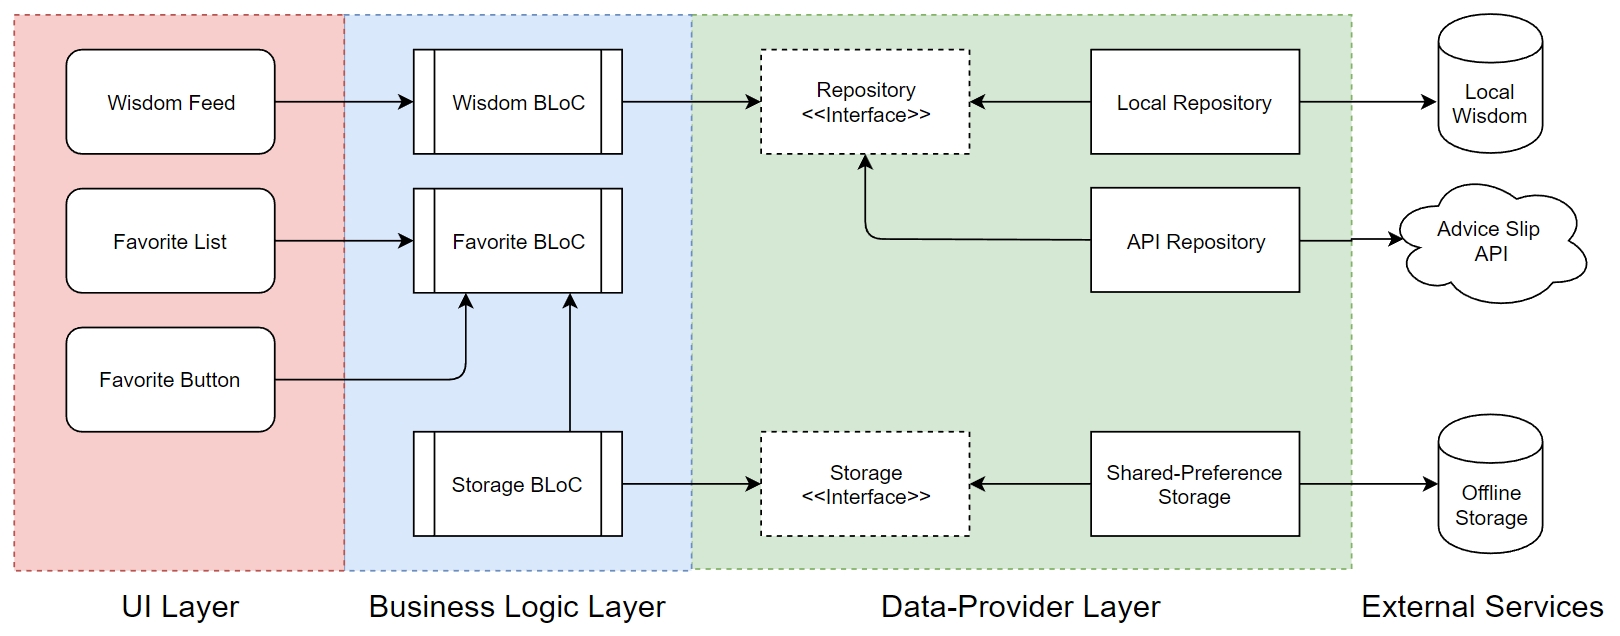
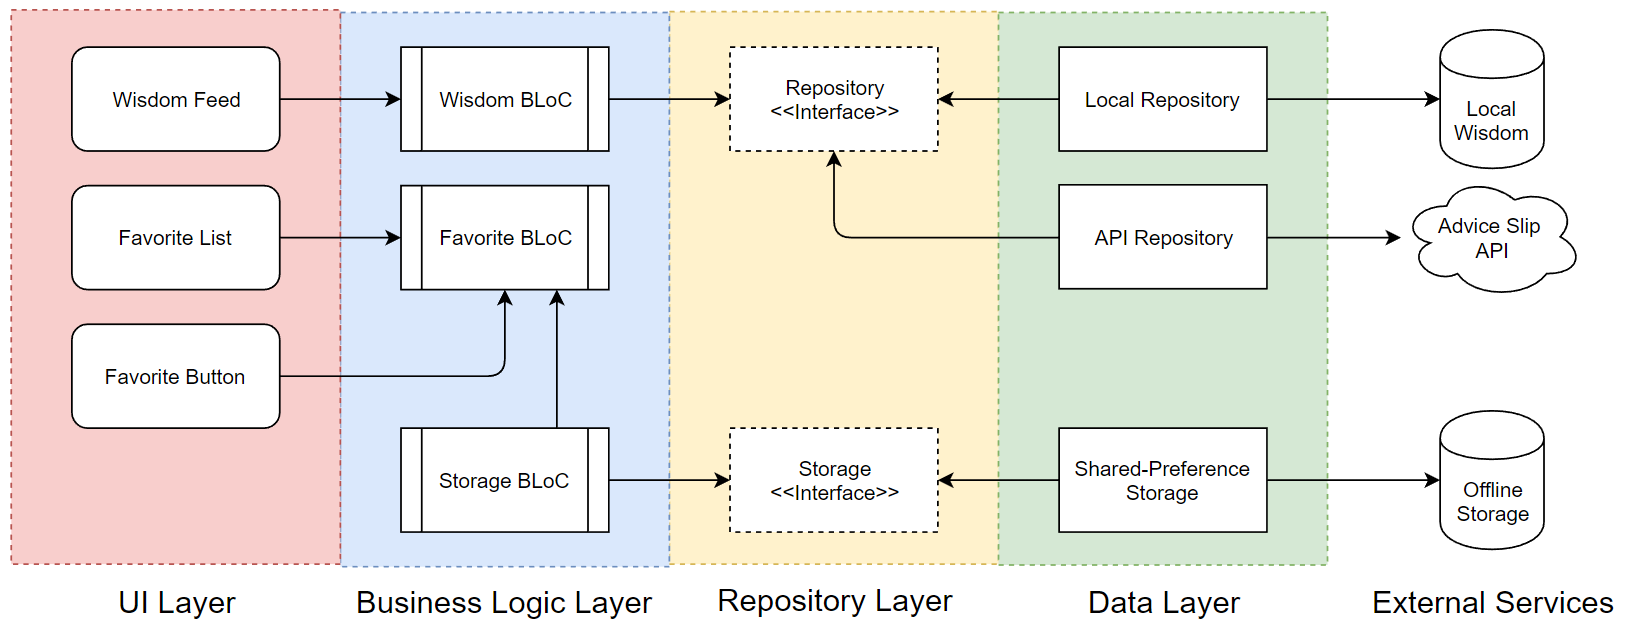
img

diff --git a/.raw-text/raw-guide.md b/.raw-text/raw-guide.md
@@ -287,7 +287,7 @@ _Code Snippet 6: Hypothetical Wisgen Image Widget [[@faustWisgen2019]](https://g
 Alright, but what does that mean for me as a Flutter developer? It is important to understand how data in Flutter flows through the Widget Tree: **Downwards**. You want to place information that is required by multiple Widgets above them in the tree, so they can both easily access it through their BuildContext. Keep this in mind, for now, I will explain this in more detail in the chapter [Architecting a Flutter App][architecture].
 
 ## The three types of Widgets
-There are 3 types of Widgets in the Flutter framework. I will now showcase their differences, their lifecycles, and their respective use-cases.
+There are three types of Widgets in the Flutter framework. I will now showcase their differences, their lifecycles, and their respective use-cases.
 
 ### Stateless Widgets
 This is the most basic of the three and likely the one you'll use the most when developing an app with Flutter. Stateless Widgets [[@flutterdevteamStatelessWidgetClass2018]](https://api.flutter.dev/flutter/widgets/StatelessWidget-class.html) are initialized once with a set of parameters and those parameters will never change from there on out. Let's have a look at an example. This is the class of the card Widget from figure 8:
@@ -772,7 +772,7 @@ _Code Snippet 21: Wisgen AdviceSlips Class [[@faustWisgen2019]](https://github.c
 
 # 200-Architecting-a-Flutter-App
 ## Introduction
-The Most central topic of architecting a Flutter [[@flutterdevteamFlutterFramework2018]](https://flutter.dev/) app is _State Management_ [[@flutterdevteamFlutterState2019]](https://flutter.dev/docs/development/data-and-backend/state-mgmt). **Where** does my State sit, **who** needs access to it and **how** do parts of the app access it? This chapter aims to answer those questions. You will learn about the two types of State, you will be introduced to the three most popular State Management solutions and you will learn one of those State Management solutions (BLoC [[@soaresFlutterAngularDartCode2018]](https://www.youtube.com/watch?v=PLHln7wHgPE)) in detail. You will also learn how to use the BLoC State Management solution in a clean and scalable 3-Layered architecture.
+The Most central topic of architecting a Flutter [[@flutterdevteamFlutterFramework2018]](https://flutter.dev/) app is _State Management_ [[@flutterdevteamFlutterState2019]](https://flutter.dev/docs/development/data-and-backend/state-mgmt). **Where** does my State sit, **who** needs access to it and **how** do parts of the app access it? This chapter aims to answer those questions. You will learn about the two types of State, you will be introduced to the three most popular State Management solutions and you will learn one of those State Management solutions (BLoC [[@soaresFlutterAngularDartCode2018]](https://www.youtube.com/watch?v=PLHln7wHgPE)) in detail. You will also learn how to use the BLoC State Management solution in a clean and scalable Four-Layered architecture.
 
 ## State Management vs Architecture
 I want to differentiate these two terms. Within the Flutter community, _State Management_ and _Architecture_ are often used synonymously, but I think we should be careful to do so. State Management is a set of tools or a pattern with which we can manage the State within our app. Architecture, on the other hand, is the overarching structure of our app. A set of rules that our app conforms to. Any architecture for a Flutter application will have some sort of State Management, but State Management is not an architecture by itself. I just want you to keep this in mind for the following chapters.
@@ -988,11 +988,11 @@ Expanded(
 _Code Snippet 28: Consuming Redux Store in Favorite Button of Wisdom Card [[@faustWisgen2019]](https://github.com/Fasust/wisgen)_
 
 ### Why I decided against it
-I went back and forth on this decision a lot. Redux is a great State Management solution with some clear guidelines on how to integrate it into a Reactive application [[@abramovThreePrinciplesRedux2015]](https://redux.js.org/introduction/three-principles). It also enables the implementation of a clean three-layered architecture (View - Store - Data) [[@eganKeepItSimple2018]](https://www.youtube.com/watch?v=zKXz3pUkw9A). Didier Boelens recommends to just stick to a Redux architecture if you are already familiar with its approach from other cross-platform development frameworks like React [[@facebookReactNativeFramework2015]](https://facebook.github.io/react-native/) and Angular [[@googlellcAngular2016]](https://angular.io/) and I very much agree with this advice [[@boelensFlutterBLoCScopedModel2019]](https://www.didierboelens.com/2019/04/bloc---scopedmodel---redux---comparison/). I have previously never worked with Redux and I decided to use BLoC over Redux because:
+I went back and forth on this decision a lot. Redux is a great State Management solution with some clear guidelines on how to integrate it into a Reactive application [[@abramovThreePrinciplesRedux2015]](https://redux.js.org/introduction/three-principles). It also enables the implementation of a clean four-layered architecture (View - Store - Data) [[@eganKeepItSimple2018]](https://www.youtube.com/watch?v=zKXz3pUkw9A). Didier Boelens recommends to just stick to a Redux architecture if you are already familiar with its approach from other cross-platform development frameworks like React [[@facebookReactNativeFramework2015]](https://facebook.github.io/react-native/) and Angular [[@googlellcAngular2016]](https://angular.io/) and I very much agree with this advice [[@boelensFlutterBLoCScopedModel2019]](https://www.didierboelens.com/2019/04/bloc---scopedmodel---redux---comparison/). I have previously never worked with Redux and I decided to use BLoC over Redux because:
 
 1. It was publicly endorsed by the Flutter Team on multiple occasions [@sullivanBuildReactiveMobile2018; @hracekPragmaticStateManagement2019; @sullivanTechnicalDebtStreams2018; @soaresFlutterAngularDartCode2018; @flutterdevteamFlutterState2019]
 2. It also has clear architectural rules [[@soaresFlutterAngularDartCode2018]](https://www.youtube.com/watch?v=PLHln7wHgPE)
-3. It also enables the implementation of a clean three-layered architecture [[@suriArchitectYourFlutter2019]](https://medium.com/flutterpub/architecting-your-flutter-project-bd04e144a8f1)
+3. It also enables the implementation of a clean four-layered architecture [[@suriArchitectYourFlutter2019]](https://medium.com/flutterpub/architecting-your-flutter-project-bd04e144a8f1)
 4. It was developed by one of Flutter's Engineers [[@soaresFlutterAngularDartCode2018]](https://www.youtube.com/watch?v=PLHln7wHgPE)
 5. We don't end up with one giant store for the business logic out with multiple blocs with separate responsibilities [[@boelensFlutterBLoCScopedModel2019]](https://www.didierboelens.com/2019/04/bloc---scopedmodel---redux---comparison/)
 
@@ -1155,20 +1155,20 @@ Expanded(
 _Code Snippet XXX: Accessing a BLoC in Wisgen [[@faustWisgen2019]](https://github.com/Fasust/wisgen)_
 
 ## Layered Architecure
-Now that we understand how to implement the BLoC pattern, lets' have a look at how we can use it to achieve a clean three-layered architecture for your application. The BLoC Pattern already forces us to keep our UI and our business logic separate. This way we end up with a UI-Layer and a Business-Logic-Layer. Lastly, we want to keep our BLoCs plattform independant. We can do this by extracting any logic related to external services from the BLoC and puting it into its own layer [[@suriArchitectYourFlutter2019]](https://medium.com/flutterpub/architecting-your-flutter-project-bd04e144a8f1). This layer is responsible for things like communication with a database, communication with an api or communication with any other system that is not part of our application. Let's call the classes in this layer _Data-Providers_, as they provide access to external Data. To fulfill rule two of the BLoC Pattern [[@soaresFlutterAngularDartCode2018]](https://www.youtube.com/watch?v=PLHln7wHgPE), we can't have our BLoCs directly depend on our _Data-Providers_. We have to create plattform agnostic interfaces (IE _boundary objects_ [[@martinPrinciplesCleanArchitecture2015]](https://www.youtube.com/watch?v=o_TH-Y78tt4)) and make our _Data-Providers_ implement those. Then our BLoCs can depend on the plattform agnostic interfaces and the actual dependency can be injected. This way we end up with a clean three-layered architecture with one-way dependencies: 
+Now that we understand how to implement the BLoC pattern, lets' have a look at how we can use it to achieve a clean four-layered architecture for your application. The BLoC Pattern already forces us to keep our UI and our business logic separate. This way we end up with a UI-Layer and a Business-Logic-Layer. Lastly, we want to keep our BLoCs plattform independant. We can do this by extracting any logic related to external services from the BLoC and puting it into its own layer [[@suriArchitectYourFlutter2019]](https://medium.com/flutterpub/architecting-your-flutter-project-bd04e144a8f1). This layer is responsible for things like communication with a database, communication with an api or communication with any other system that is not part of our application. Let's call the classes in this layer _Data-Providers_, as they provide access to external Data. To fulfill rule two of the BLoC Pattern [[@soaresFlutterAngularDartCode2018]](https://www.youtube.com/watch?v=PLHln7wHgPE), we can't have our BLoCs directly depend on our _Data-Providers_. We have to create plattform agnostic interfaces (IE _boundary objects_ [[@martinPrinciplesCleanArchitecture2015]](https://www.youtube.com/watch?v=o_TH-Y78tt4)) and make our _Data-Providers_ implement those. Then our BLoCs can depend on the plattform agnostic interfaces and the actual dependency can be injected. This way we end up with a clean four-layered architecture with one-way dependencies: 
 
 <img src="https://github.com/Fasust/flutter-guide/wiki//images/bloc-my-layers.png" height="500" alt="Bloc Architecture with Layers">
 
-_Figure XXX: Three-Layered BLoC Architecture_
+_Figure XXX: Four-Layered BLoC Architecture_
 
 ### Architecture in Practice 
-To give you a better understanding of how this architecture works in practice, I will walk you through how Wisgen [[@faustWisgen2019]](https://github.com/Fasust/wisgen) is build using the BLoC Pattern and a three-layered architecture.
+To give you a better understanding of how this architecture works in practice, I will walk you through how Wisgen [[@faustWisgen2019]](https://github.com/Fasust/wisgen) is build using the BLoC Pattern and a Four-layered architecture.
 
 ![Wisgen Bloc Architecture](https://github.com/Fasust/flutter-guide/wiki//images/wisgen_depencies.PNG)
 
 _Figure XXX: Wisgen Architecture with Dependencies [[@faustWisgen2019]](https://github.com/Fasust/wisgen)_
 
-In the UI Layer, we have all the Widgets that make up Wisgen. 3 of those actually consume State from the BLoC Layer, so those are the only ones I put in figure XXX. The _Wisdom Feed_ displays an infinite list of wisdoms. Whenever the user scrolls close to the bottom of the list, the Wisdom Feed sends a _Request-Event_ to the Wisdom BLoC [[@angelovFlutterInfiniteList2019]](https://felangel.github.io/bloc/#/flutterinfinitelisttutorial). This event causes the _Wisdom BLoC_ to fetch more data from its _Repository_. The _Repository_ class is a plattform agnostic interface that looks like this: 
+In the UI Layer, we have all the Widgets that make up Wisgen. Three of those actually consume State from the BLoC Layer, so those are the only ones I put in figure XXX. The _Wisdom Feed_ displays an infinite list of wisdoms. Whenever the user scrolls close to the bottom of the list, the Wisdom Feed sends a _Request-Event_ to the Wisdom BLoC [[@angelovFlutterInfiniteList2019]](https://felangel.github.io/bloc/#/flutterinfinitelisttutorial). This event causes the _Wisdom BLoC_ to fetch more data from its _Repository_. The _Repository_ class is a plattform agnostic interface that looks like this: 
 
 ```dart
 ///Interface for a Generic List Provider that fetches a given amount of T

diff --git a/.raw-text/gfm-guide.md b/.raw-text/gfm-guide.md
@@ -295,7 +295,7 @@ Alright, but what does that mean for me as a Flutter developer? It is important 
 
 ## The three types of Widgets
 
-There are 3 types of Widgets in the Flutter framework. I will now showcase their differences, their lifecycles, and their respective use-cases.
+There are three types of Widgets in the Flutter framework. I will now showcase their differences, their lifecycles, and their respective use-cases.
 
 ### Stateless Widgets
 
@@ -805,7 +805,7 @@ class Slips {
 
 ## Introduction
 
-The Most central topic of architecting a Flutter [\[1\]](https://flutter.dev/) app is *State Management* [\[12\]](https://flutter.dev/docs/development/data-and-backend/state-mgmt). **Where** does my State sit, **who** needs access to it and **how** do parts of the app access it? This chapter aims to answer those questions. You will learn about the two types of State, you will be introduced to the three most popular State Management solutions and you will learn one of those State Management solutions (BLoC [\[7\]](https://www.youtube.com/watch?v=PLHln7wHgPE)) in detail. You will also learn how to use the BLoC State Management solution in a clean and scalable 3-Layered architecture.
+The Most central topic of architecting a Flutter [\[1\]](https://flutter.dev/) app is *State Management* [\[12\]](https://flutter.dev/docs/development/data-and-backend/state-mgmt). **Where** does my State sit, **who** needs access to it and **how** do parts of the app access it? This chapter aims to answer those questions. You will learn about the two types of State, you will be introduced to the three most popular State Management solutions and you will learn one of those State Management solutions (BLoC [\[7\]](https://www.youtube.com/watch?v=PLHln7wHgPE)) in detail. You will also learn how to use the BLoC State Management solution in a clean and scalable Four-Layered architecture.
 
 ## State Management vs Architecture
 
@@ -1035,11 +1035,11 @@ Expanded(
 
 ### Why I decided against it
 
-I went back and forth on this decision a lot. Redux is a great State Management solution with some clear guidelines on how to integrate it into a Reactive application [\[62\]](https://redux.js.org/introduction/three-principles). It also enables the implementation of a clean three-layered architecture (View - Store - Data) [\[55\]](https://www.youtube.com/watch?v=zKXz3pUkw9A). Didier Boelens recommends to just stick to a Redux architecture if you are already familiar with its approach from other cross-platform development frameworks like React [\[19\]](https://facebook.github.io/react-native/) and Angular [\[63\]](https://angular.io/) and I very much agree with this advice [\[57\]](https://www.didierboelens.com/2019/04/bloc---scopedmodel---redux---comparison/). I have previously never worked with Redux and I decided to use BLoC over Redux because:
+I went back and forth on this decision a lot. Redux is a great State Management solution with some clear guidelines on how to integrate it into a Reactive application [\[62\]](https://redux.js.org/introduction/three-principles). It also enables the implementation of a clean four-layered architecture (View - Store - Data) [\[55\]](https://www.youtube.com/watch?v=zKXz3pUkw9A). Didier Boelens recommends to just stick to a Redux architecture if you are already familiar with its approach from other cross-platform development frameworks like React [\[19\]](https://facebook.github.io/react-native/) and Angular [\[63\]](https://angular.io/) and I very much agree with this advice [\[57\]](https://www.didierboelens.com/2019/04/bloc---scopedmodel---redux---comparison/). I have previously never worked with Redux and I decided to use BLoC over Redux because:
 
 1.  It was publicly endorsed by the Flutter Team on multiple occasions \[7\], \[12\], \[49\], \[53\], \[64\]
 2.  It also has clear architectural rules [\[7\]](https://www.youtube.com/watch?v=PLHln7wHgPE)
-3.  It also enables the implementation of a clean three-layered architecture [\[65\]](https://medium.com/flutterpub/architecting-your-flutter-project-bd04e144a8f1)
+3.  It also enables the implementation of a clean four-layered architecture [\[65\]](https://medium.com/flutterpub/architecting-your-flutter-project-bd04e144a8f1)
 4.  It was developed by one of Flutter’s Engineers [\[7\]](https://www.youtube.com/watch?v=PLHln7wHgPE)
 5.  We don’t end up with one giant store for the business logic out with multiple blocs with separate responsibilities [\[57\]](https://www.didierboelens.com/2019/04/bloc---scopedmodel---redux---comparison/)
 
@@ -1211,21 +1211,21 @@ Expanded(
 
 ## Layered Architecure
 
-Now that we understand how to implement the BLoC pattern, lets’ have a look at how we can use it to achieve a clean three-layered architecture for your application. The BLoC Pattern already forces us to keep our UI and our business logic separate. This way we end up with a UI-Layer and a Business-Logic-Layer. Lastly, we want to keep our BLoCs plattform independant. We can do this by extracting any logic related to external services from the BLoC and puting it into its own layer [\[65\]](https://medium.com/flutterpub/architecting-your-flutter-project-bd04e144a8f1). This layer is responsible for things like communication with a database, communication with an api or communication with any other system that is not part of our application. Let’s call the classes in this layer *Data-Providers*, as they provide access to external Data. To fulfill rule two of the BLoC Pattern [\[7\]](https://www.youtube.com/watch?v=PLHln7wHgPE), we can’t have our BLoCs directly depend on our *Data-Providers*. We have to create plattform agnostic interfaces (IE *boundary objects* [\[67\]](https://www.youtube.com/watch?v=o_TH-Y78tt4)) and make our *Data-Providers* implement those. Then our BLoCs can depend on the plattform agnostic interfaces and the actual dependency can be injected. This way we end up with a clean three-layered architecture with one-way dependencies:
+Now that we understand how to implement the BLoC pattern, lets’ have a look at how we can use it to achieve a clean four-layered architecture for your application. The BLoC Pattern already forces us to keep our UI and our business logic separate. This way we end up with a UI-Layer and a Business-Logic-Layer. Lastly, we want to keep our BLoCs plattform independant. We can do this by extracting any logic related to external services from the BLoC and puting it into its own layer [\[65\]](https://medium.com/flutterpub/architecting-your-flutter-project-bd04e144a8f1). This layer is responsible for things like communication with a database, communication with an api or communication with any other system that is not part of our application. Let’s call the classes in this layer *Data-Providers*, as they provide access to external Data. To fulfill rule two of the BLoC Pattern [\[7\]](https://www.youtube.com/watch?v=PLHln7wHgPE), we can’t have our BLoCs directly depend on our *Data-Providers*. We have to create plattform agnostic interfaces (IE *boundary objects* [\[67\]](https://www.youtube.com/watch?v=o_TH-Y78tt4)) and make our *Data-Providers* implement those. Then our BLoCs can depend on the plattform agnostic interfaces and the actual dependency can be injected. This way we end up with a clean four-layered architecture with one-way dependencies:
 
 <img src="https://github.com/Fasust/flutter-guide/wiki//images/bloc-my-layers.png" height="500" alt="Bloc Architecture with Layers">
 
-*Figure XXX: Three-Layered BLoC Architecture*
+*Figure XXX: Four-Layered BLoC Architecture*
 
 ### Architecture in Practice
 
-To give you a better understanding of how this architecture works in practice, I will walk you through how Wisgen [\[11\]](https://github.com/Fasust/wisgen) is build using the BLoC Pattern and a three-layered architecture.
+To give you a better understanding of how this architecture works in practice, I will walk you through how Wisgen [\[11\]](https://github.com/Fasust/wisgen) is build using the BLoC Pattern and a Four-layered architecture.
 
 ![Wisgen Bloc Architecture](https://github.com/Fasust/flutter-guide/wiki//images/wisgen_depencies.PNG)
 
 *Figure XXX: Wisgen Architecture with Dependencies [\[11\]](https://github.com/Fasust/wisgen)*
 
-In the UI Layer, we have all the Widgets that make up Wisgen. 3 of those actually consume State from the BLoC Layer, so those are the only ones I put in figure XXX. The *Wisdom Feed* displays an infinite list of wisdoms. Whenever the user scrolls close to the bottom of the list, the Wisdom Feed sends a *Request-Event* to the Wisdom BLoC [\[47\]](https://felangel.github.io/bloc/#/flutterinfinitelisttutorial). This event causes the *Wisdom BLoC* to fetch more data from its *Repository*. The *Repository* class is a plattform agnostic interface that looks like this:
+In the UI Layer, we have all the Widgets that make up Wisgen. Three of those actually consume State from the BLoC Layer, so those are the only ones I put in figure XXX. The *Wisdom Feed* displays an infinite list of wisdoms. Whenever the user scrolls close to the bottom of the list, the Wisdom Feed sends a *Request-Event* to the Wisdom BLoC [\[47\]](https://felangel.github.io/bloc/#/flutterinfinitelisttutorial). This event causes the *Wisdom BLoC* to fetch more data from its *Repository*. The *Repository* class is a plattform agnostic interface that looks like this:
 
 ``` dart
 ///Interface for a Generic List Provider that fetches a given amount of T

diff --git a/pages/220-BLoC.md b/pages/220-BLoC.md
@@ -174,21 +174,21 @@ Expanded(
 
 ## Layered Architecure
 
-Now that we understand how to implement the BLoC pattern, lets’ have a look at how we can use it to achieve a clean three-layered architecture for your application. The BLoC Pattern already forces us to keep our UI and our business logic separate. This way we end up with a UI-Layer and a Business-Logic-Layer. Lastly, we want to keep our BLoCs plattform independant. We can do this by extracting any logic related to external services from the BLoC and puting it into its own layer [\[65\]](https://medium.com/flutterpub/architecting-your-flutter-project-bd04e144a8f1). This layer is responsible for things like communication with a database, communication with an api or communication with any other system that is not part of our application. Let’s call the classes in this layer *Data-Providers*, as they provide access to external Data. To fulfill rule two of the BLoC Pattern [\[7\]](https://www.youtube.com/watch?v=PLHln7wHgPE), we can’t have our BLoCs directly depend on our *Data-Providers*. We have to create plattform agnostic interfaces (IE *boundary objects* [\[67\]](https://www.youtube.com/watch?v=o_TH-Y78tt4)) and make our *Data-Providers* implement those. Then our BLoCs can depend on the plattform agnostic interfaces and the actual dependency can be injected. This way we end up with a clean three-layered architecture with one-way dependencies:
+Now that we understand how to implement the BLoC pattern, lets’ have a look at how we can use it to achieve a clean four-layered architecture for your application. The BLoC Pattern already forces us to keep our UI and our business logic separate. This way we end up with a UI-Layer and a Business-Logic-Layer. Lastly, we want to keep our BLoCs plattform independant. We can do this by extracting any logic related to external services from the BLoC and puting it into its own layer [\[65\]](https://medium.com/flutterpub/architecting-your-flutter-project-bd04e144a8f1). This layer is responsible for things like communication with a database, communication with an api or communication with any other system that is not part of our application. Let’s call the classes in this layer *Data-Providers*, as they provide access to external Data. To fulfill rule two of the BLoC Pattern [\[7\]](https://www.youtube.com/watch?v=PLHln7wHgPE), we can’t have our BLoCs directly depend on our *Data-Providers*. We have to create plattform agnostic interfaces (IE *boundary objects* [\[67\]](https://www.youtube.com/watch?v=o_TH-Y78tt4)) and make our *Data-Providers* implement those. Then our BLoCs can depend on the plattform agnostic interfaces and the actual dependency can be injected. This way we end up with a clean four-layered architecture with one-way dependencies:
 
 <img src="https://github.com/Fasust/flutter-guide/wiki//images/bloc-my-layers.png" height="500" alt="Bloc Architecture with Layers">
 
-*Figure XXX: Three-Layered BLoC Architecture*
+*Figure XXX: Four-Layered BLoC Architecture*
 
 ### Architecture in Practice
 
-To give you a better understanding of how this architecture works in practice, I will walk you through how Wisgen [\[11\]](https://github.com/Fasust/wisgen) is build using the BLoC Pattern and a three-layered architecture.
+To give you a better understanding of how this architecture works in practice, I will walk you through how Wisgen [\[11\]](https://github.com/Fasust/wisgen) is build using the BLoC Pattern and a Four-layered architecture.
 
 ![Wisgen Bloc Architecture](https://github.com/Fasust/flutter-guide/wiki//images/wisgen_depencies.PNG)
 
 *Figure XXX: Wisgen Architecture with Dependencies [\[11\]](https://github.com/Fasust/wisgen)*
 
-In the UI Layer, we have all the Widgets that make up Wisgen. 3 of those actually consume State from the BLoC Layer, so those are the only ones I put in figure XXX. The *Wisdom Feed* displays an infinite list of wisdoms. Whenever the user scrolls close to the bottom of the list, the Wisdom Feed sends a *Request-Event* to the Wisdom BLoC [\[47\]](https://felangel.github.io/bloc/#/flutterinfinitelisttutorial). This event causes the *Wisdom BLoC* to fetch more data from its *Repository*. The *Repository* class is a plattform agnostic interface that looks like this:
+In the UI Layer, we have all the Widgets that make up Wisgen. Three of those actually consume State from the BLoC Layer, so those are the only ones I put in figure XXX. The *Wisdom Feed* displays an infinite list of wisdoms. Whenever the user scrolls close to the bottom of the list, the Wisdom Feed sends a *Request-Event* to the Wisdom BLoC [\[47\]](https://felangel.github.io/bloc/#/flutterinfinitelisttutorial). This event causes the *Wisdom BLoC* to fetch more data from its *Repository*. The *Repository* class is a plattform agnostic interface that looks like this:
 
 ``` dart
 ///Interface for a Generic List Provider that fetches a given amount of T

diff --git a/pages/210-State-Management-Alternatives.md b/pages/210-State-Management-Alternatives.md
@@ -214,11 +214,11 @@ Expanded(
 
 ### Why I decided against it
 
-I went back and forth on this decision a lot. Redux is a great State Management solution with some clear guidelines on how to integrate it into a Reactive application [\[62\]](https://redux.js.org/introduction/three-principles). It also enables the implementation of a clean three-layered architecture (View - Store - Data) [\[55\]](https://www.youtube.com/watch?v=zKXz3pUkw9A). Didier Boelens recommends to just stick to a Redux architecture if you are already familiar with its approach from other cross-platform development frameworks like React [\[19\]](https://facebook.github.io/react-native/) and Angular [\[63\]](https://angular.io/) and I very much agree with this advice [\[57\]](https://www.didierboelens.com/2019/04/bloc---scopedmodel---redux---comparison/). I have previously never worked with Redux and I decided to use BLoC over Redux because:
+I went back and forth on this decision a lot. Redux is a great State Management solution with some clear guidelines on how to integrate it into a Reactive application [\[62\]](https://redux.js.org/introduction/three-principles). It also enables the implementation of a clean four-layered architecture (View - Store - Data) [\[55\]](https://www.youtube.com/watch?v=zKXz3pUkw9A). Didier Boelens recommends to just stick to a Redux architecture if you are already familiar with its approach from other cross-platform development frameworks like React [\[19\]](https://facebook.github.io/react-native/) and Angular [\[63\]](https://angular.io/) and I very much agree with this advice [\[57\]](https://www.didierboelens.com/2019/04/bloc---scopedmodel---redux---comparison/). I have previously never worked with Redux and I decided to use BLoC over Redux because:
 
 1.  It was publicly endorsed by the Flutter Team on multiple occasions \[7\], \[12\], \[49\], \[53\], \[64\]
 2.  It also has clear architectural rules [\[7\]](https://www.youtube.com/watch?v=PLHln7wHgPE)
-3.  It also enables the implementation of a clean three-layered architecture [\[65\]](https://medium.com/flutterpub/architecting-your-flutter-project-bd04e144a8f1)
+3.  It also enables the implementation of a clean four-layered architecture [\[65\]](https://medium.com/flutterpub/architecting-your-flutter-project-bd04e144a8f1)
 4.  It was developed by one of Flutter’s Engineers [\[7\]](https://www.youtube.com/watch?v=PLHln7wHgPE)
 5.  We don’t end up with one giant store for the business logic out with multiple blocs with separate responsibilities [\[57\]](https://www.didierboelens.com/2019/04/bloc---scopedmodel---redux---comparison/)
 

diff --git a/pages/200-Architecting-a-Flutter-App.md b/pages/200-Architecting-a-Flutter-App.md
@@ -6,7 +6,7 @@ Page Table of Contents
 
 ## Introduction
 
-The Most central topic of architecting a Flutter [\[1\]](https://flutter.dev/) app is *State Management* [\[12\]](https://flutter.dev/docs/development/data-and-backend/state-mgmt). **Where** does my State sit, **who** needs access to it and **how** do parts of the app access it? This chapter aims to answer those questions. You will learn about the two types of State, you will be introduced to the three most popular State Management solutions and you will learn one of those State Management solutions (BLoC [\[7\]](https://www.youtube.com/watch?v=PLHln7wHgPE)) in detail. You will also learn how to use the BLoC State Management solution in a clean and scalable 3-Layered architecture.
+The Most central topic of architecting a Flutter [\[1\]](https://flutter.dev/) app is *State Management* [\[12\]](https://flutter.dev/docs/development/data-and-backend/state-mgmt). **Where** does my State sit, **who** needs access to it and **how** do parts of the app access it? This chapter aims to answer those questions. You will learn about the two types of State, you will be introduced to the three most popular State Management solutions and you will learn one of those State Management solutions (BLoC [\[7\]](https://www.youtube.com/watch?v=PLHln7wHgPE)) in detail. You will also learn how to use the BLoC State Management solution in a clean and scalable Four-Layered architecture.
 
 ## State Management vs Architecture
 

diff --git a/pages/130-The-Widget-Tree.md b/pages/130-The-Widget-Tree.md
@@ -97,7 +97,7 @@ Alright, but what does that mean for me as a Flutter developer? It is important 
 
 ## The three types of Widgets
 
-There are 3 types of Widgets in the Flutter framework. I will now showcase their differences, their lifecycles, and their respective use-cases.
+There are three types of Widgets in the Flutter framework. I will now showcase their differences, their lifecycles, and their respective use-cases.
 
 ### Stateless Widgets
 
